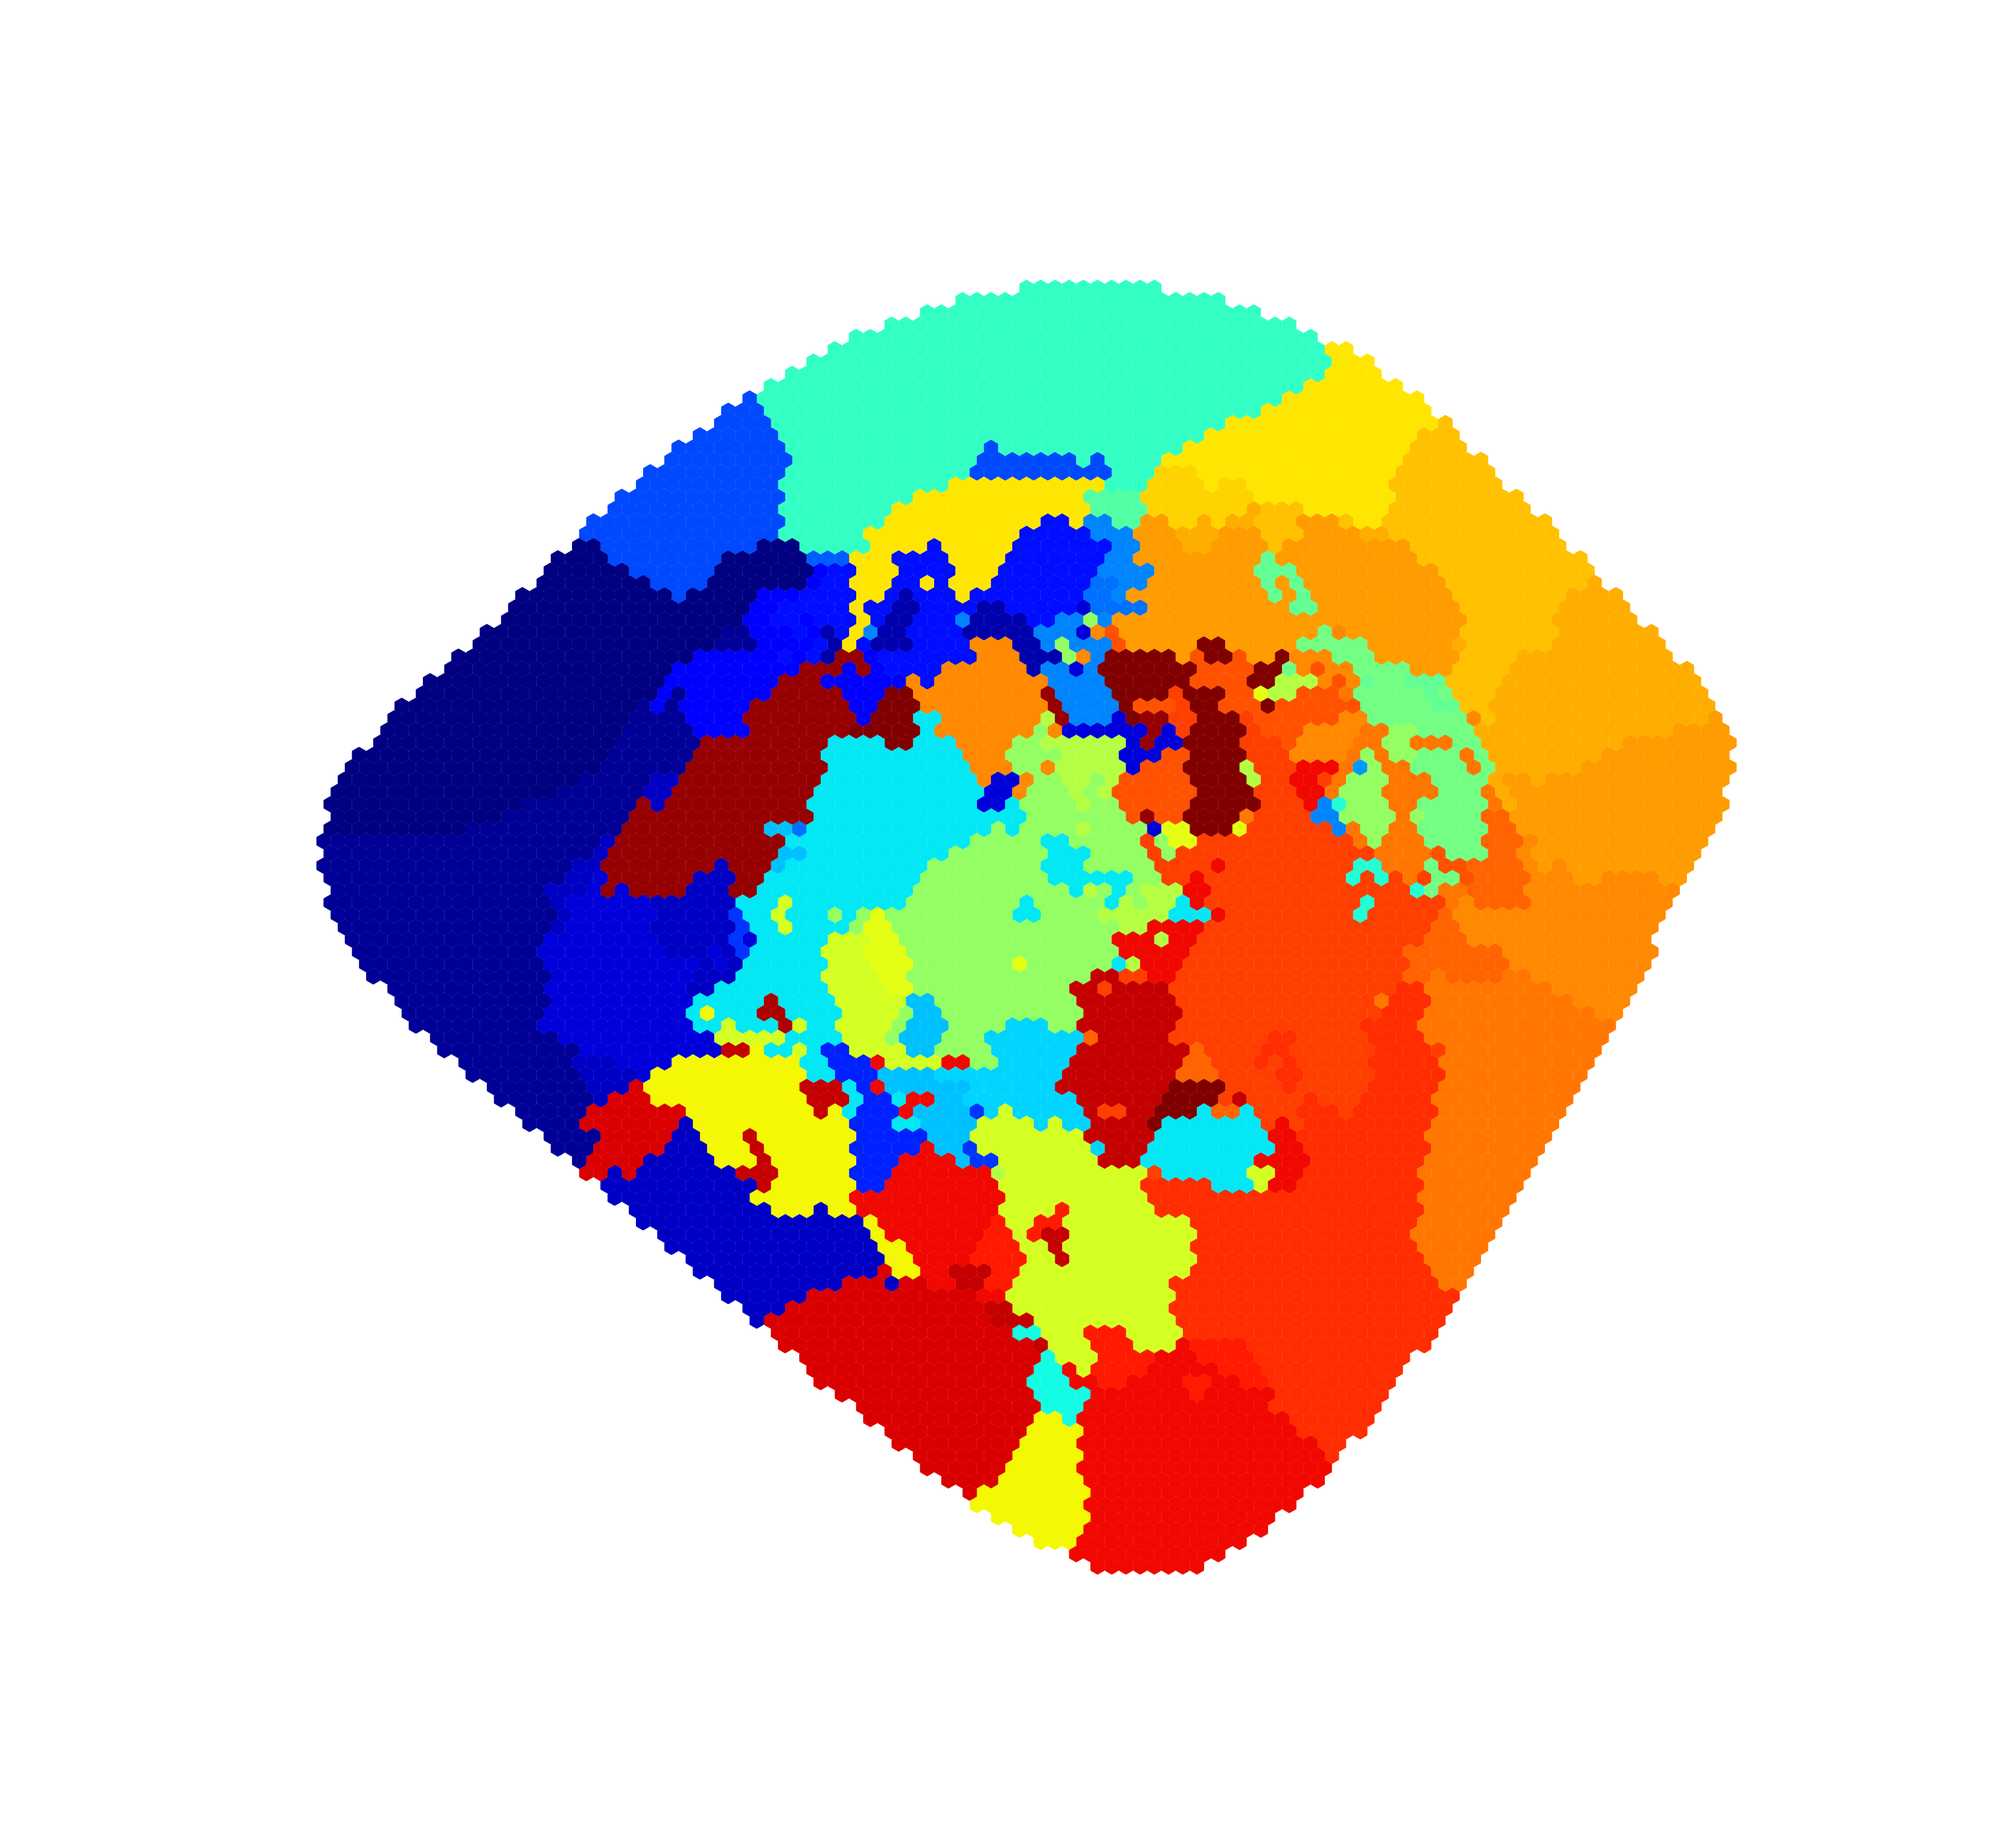
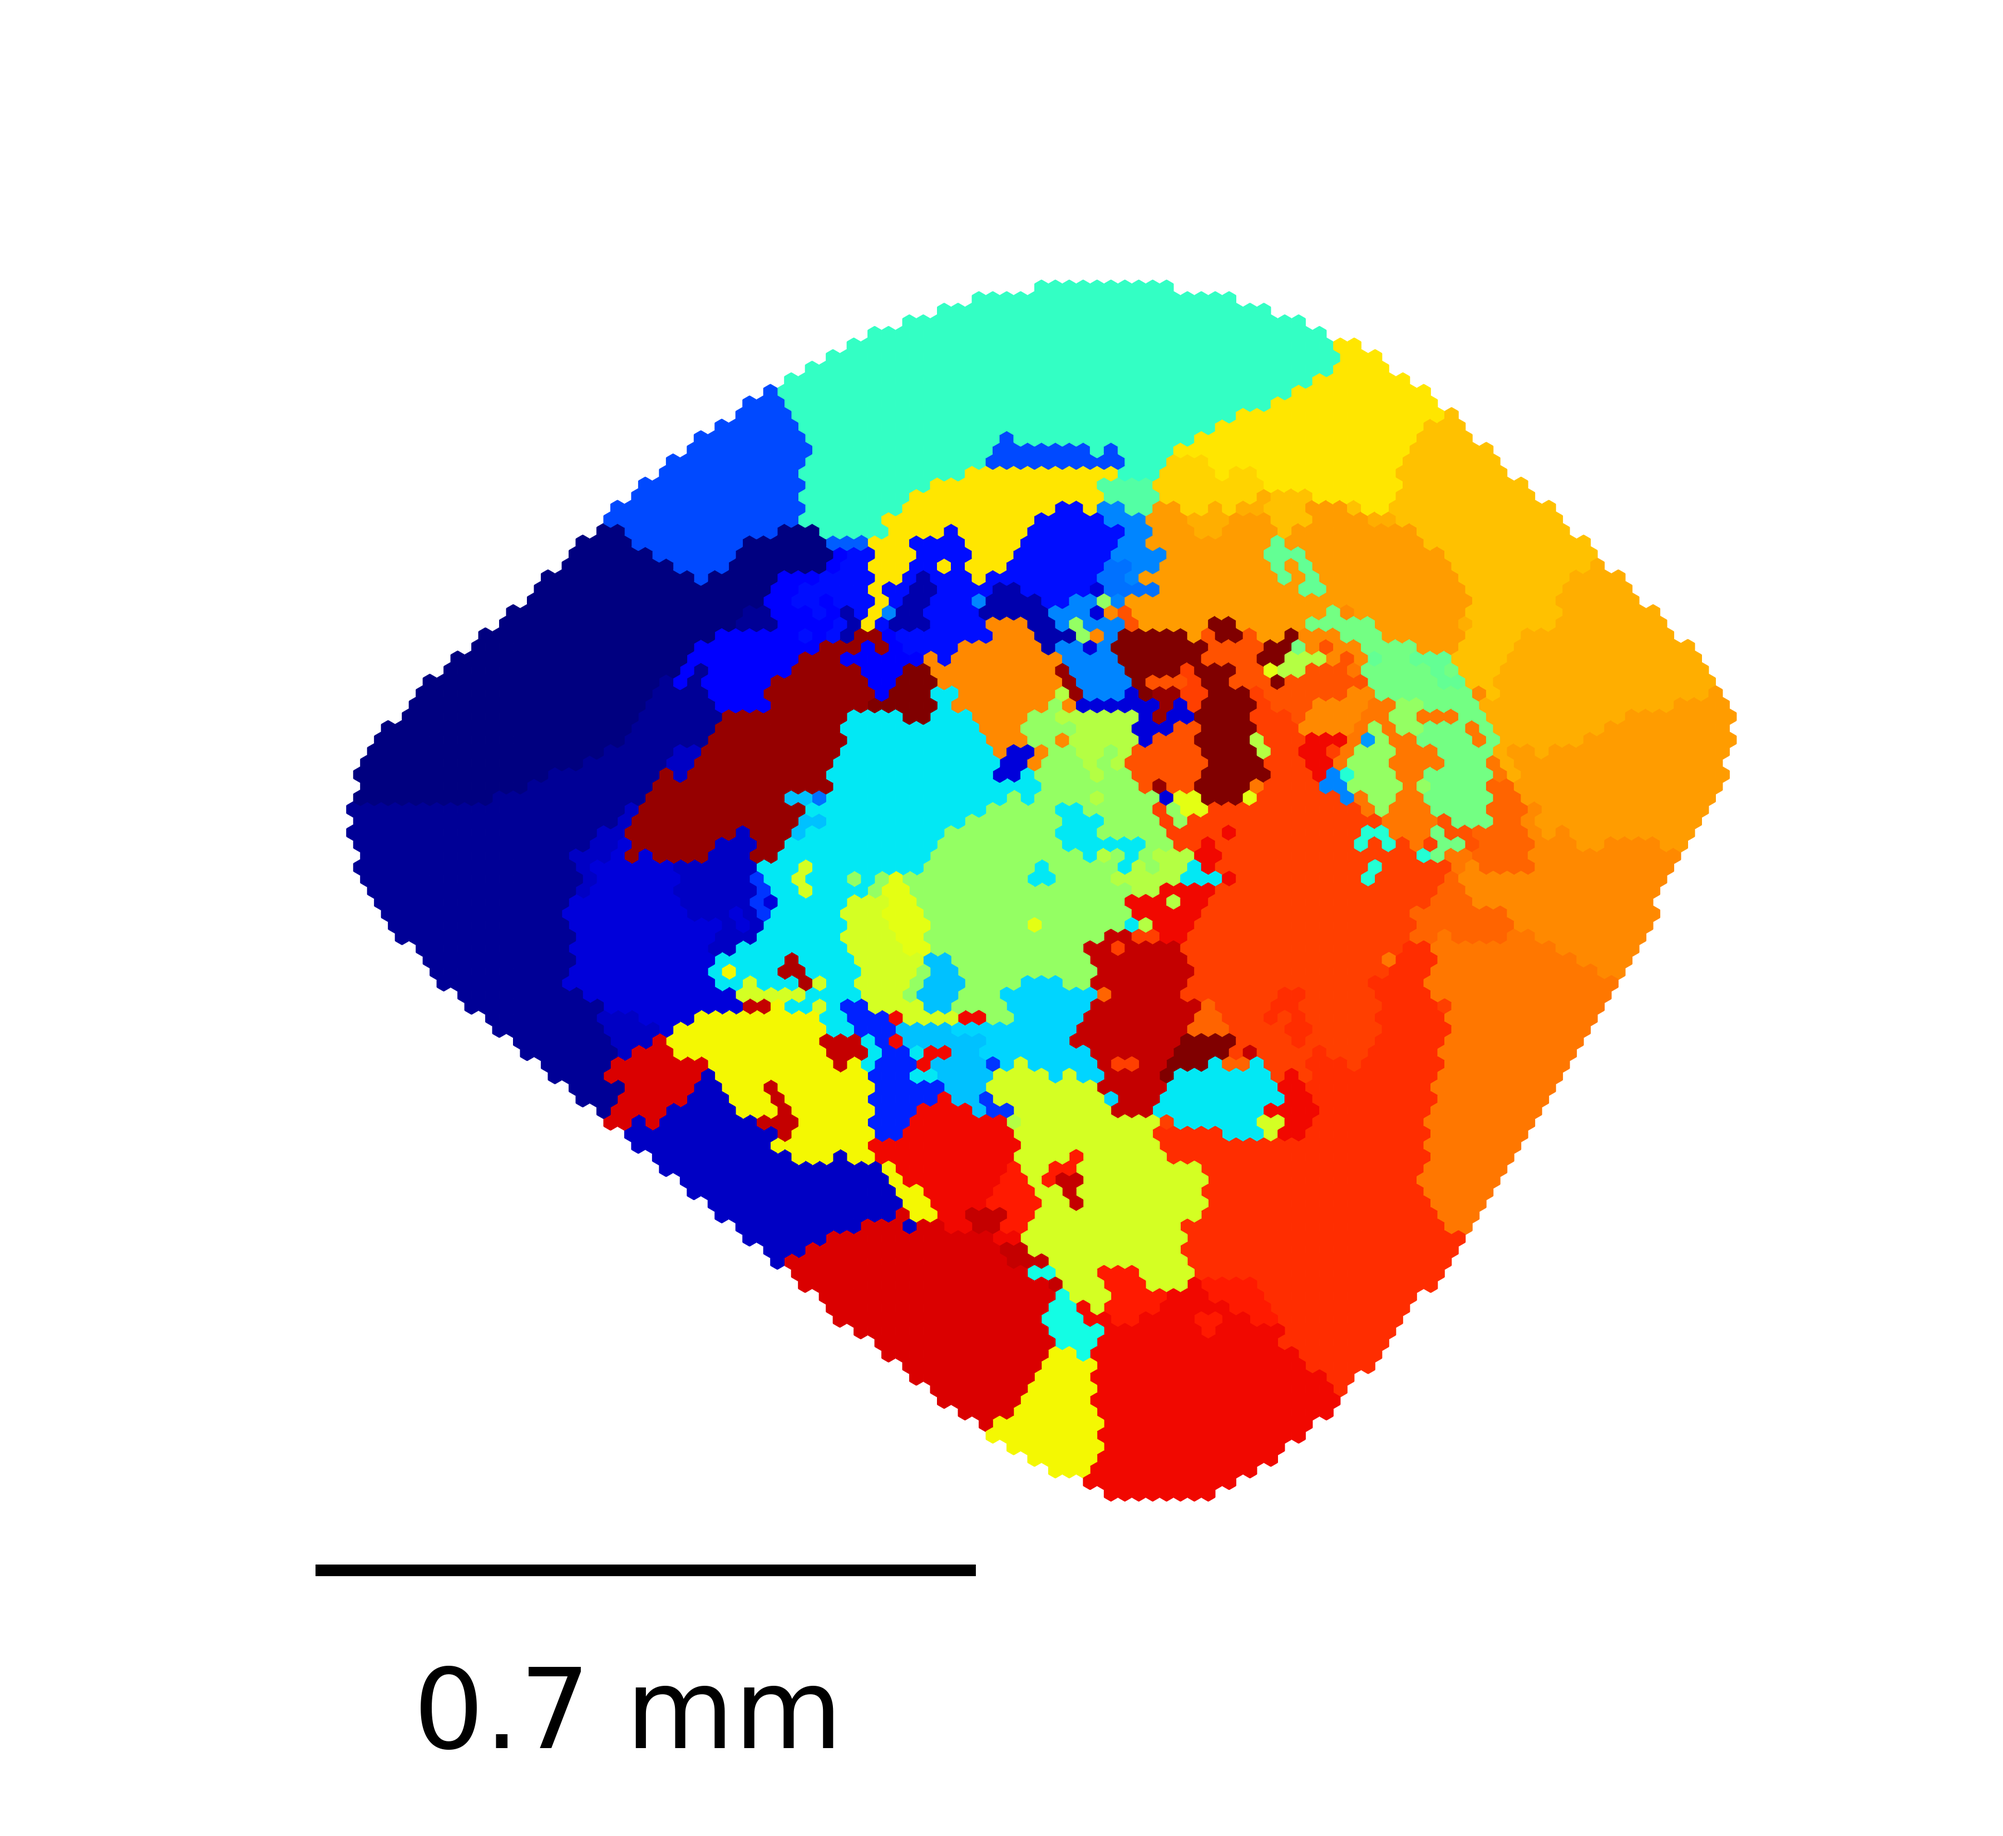
Make scalebar optional

diff --git a/analysis/plot_singlemap.py b/analysis/plot_singlemap.py
@@ -60,22 +60,24 @@ pl.showNames = False
 if shownames > 0:
     pl.showNames = True
 
-if os.path.basename(logdirname) == '52N2M_thalguide_fgfdup':
-    pl.showScalebar = True
-    pl.sb1 = [0, -0.6]
-    pl.sb2 = [0.5, -0.6]
-    pl.sbtext = '0.5 mm'
-    pl.sbtpos = [0.0, -0.8]
-    pl.sblw = 5
-    pl.sbfs = 48
-else:
-    pl.showScalebar = True
-    pl.sb1 = [-0.8, -0.8]
-    pl.sb2 = [-0.1, -0.8]
-    pl.sbtext = '0.7 mm'
-    pl.sbtpos = [-0.7, -1]
-    pl.sblw = 5
-    pl.sbfs = 48
+do_scalebar = False
+if do_scalebar:
+    if os.path.basename(logdirname) == '52N2M_thalguide_fgfdup':
+        pl.showScalebar = True
+        pl.sb1 = [0, -0.6]
+        pl.sb2 = [0.5, -0.6]
+        pl.sbtext = '0.5 mm'
+        pl.sbtpos = [0.0, -0.8]
+        pl.sblw = 5
+        pl.sbfs = 48
+    else:
+        pl.showScalebar = True
+        pl.sb1 = [-0.8, -0.8]
+        pl.sb2 = [-0.1, -0.8]
+        pl.sbtext = '0.7 mm'
+        pl.sbtpos = [-0.7, -1]
+        pl.sblw = 5
+        pl.sbfs = 48
 
 f1 = pl.surface_withnames (idmatrix[:,ti], x, y, 0, idstring, idnames, domcentres[ti,:,:])
 
